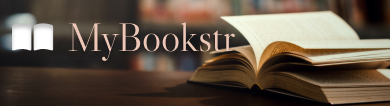
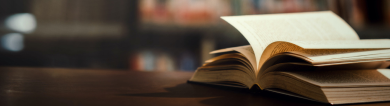
S01US00_header

Changed region(s): [[0.1846, 0.1981, 0.6154, 0.5094], [0.0308, 0.1981, 0.1538, 0.4811], [0.2462, 0.5377, 0.2769, 0.5943]]

diff --git a/public/assets/css/header.css b/public/assets/css/header.css
@@ -1,15 +1,6 @@
 header {
     background-image: url("../images/header.png");
-    padding-bottom: 13%;
+    padding-bottom: 8%;
     margin: 0;
 }
 
-.title {
-color: #E8D2C9;
-font-family: 'Goudy Bookletter 1911' serif;
-margin: 0;
-padding-top: 5%;
-padding-right: 30%;
-display: flex;
-justify-content: center;
-}
